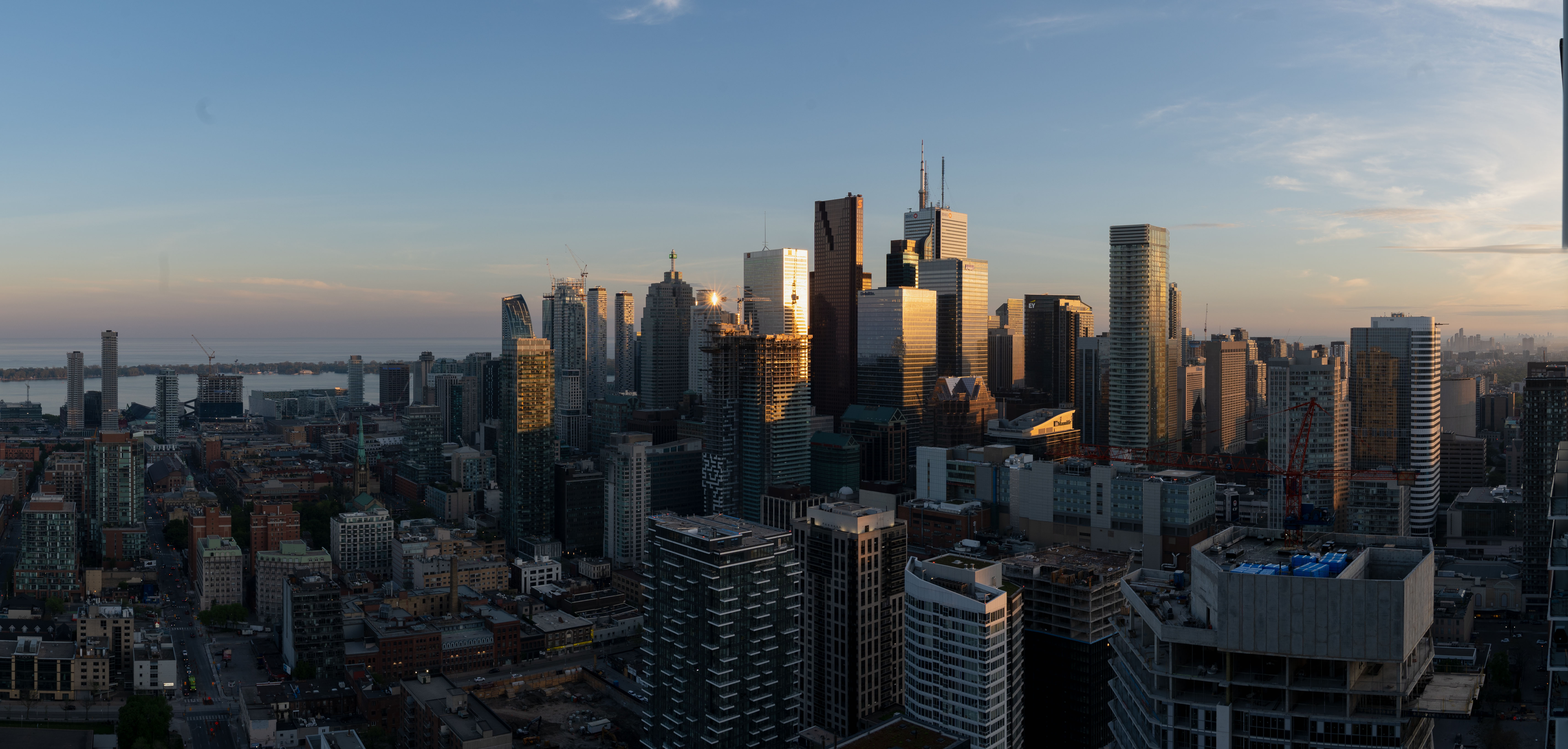
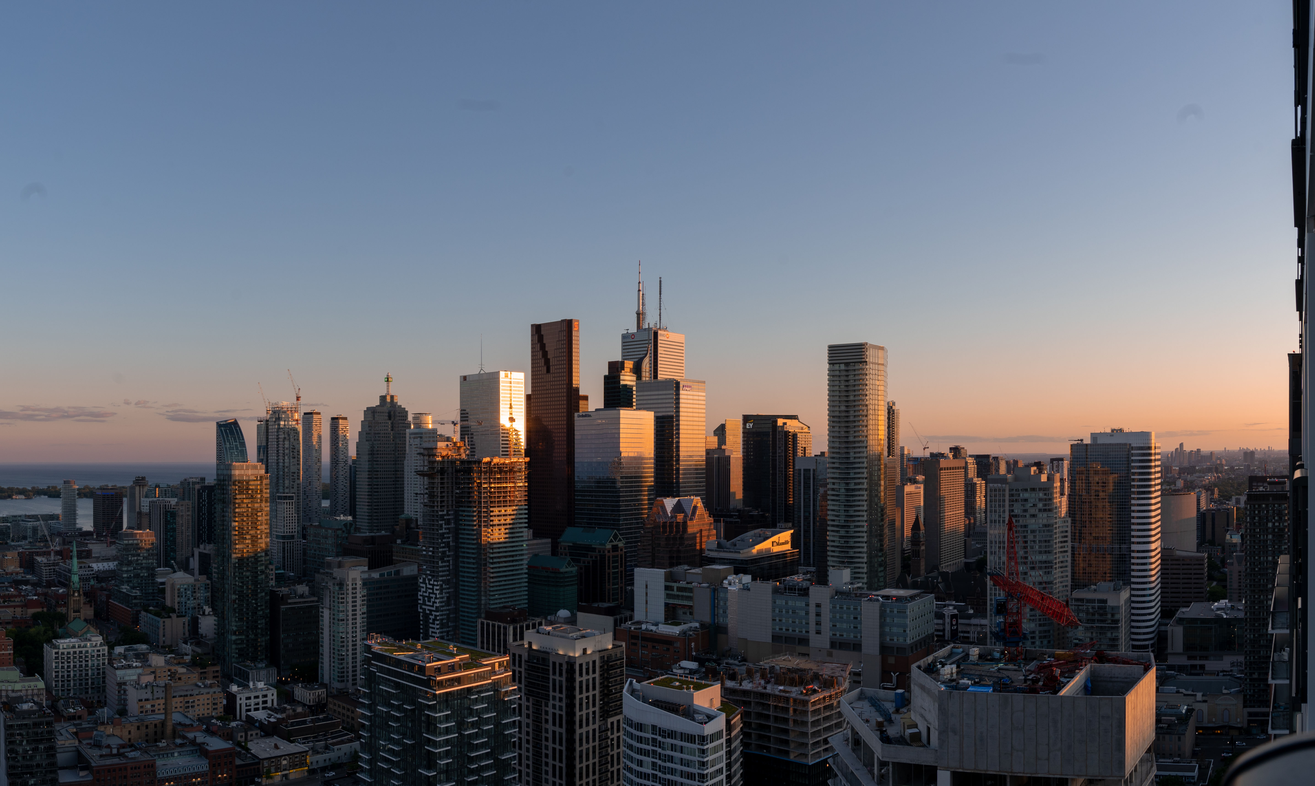
replaced background image, tweak height

diff --git a/components/ImageSection.js b/components/ImageSection.js
@@ -1,7 +1,7 @@
 const ImageSection = (image) => {
     return <section
         className={'section__image'}
-        style={{backgroundImage: `url(${image.image})`, height: '200px'}}
+        style={{backgroundImage: `url(${image.image})`, height: '20vh'}}
     >
         <div className={'section__image__overlay'}/>
     </section>

diff --git a/pages/index.js b/pages/index.js
@@ -100,7 +100,7 @@ export default function Index() {
             />
             <FadeInSection className={'dark'} fadeChildrenOnly={true}>
                 <div ref={aboutRef}>
-                    Coming soon
+                    Hi! 👋🏼
                 </div>
             </FadeInSection>
         </main>
